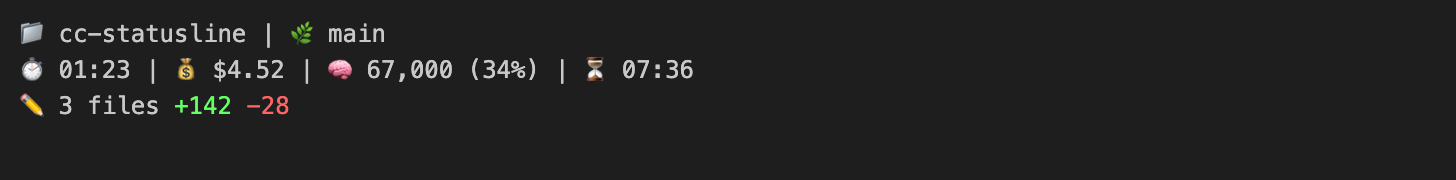
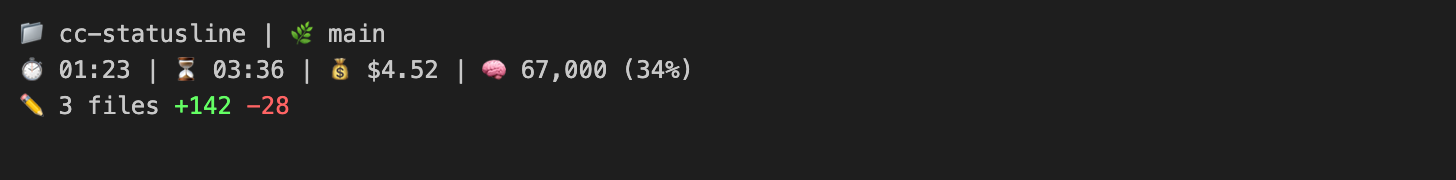
style: move limit reset timer next to session time
Reorder line 2: ⏱ session | ⏳ reset | 💰 cost | 🧠 context

Changed region(s): [[0.1236, 0.3056, 0.4945, 0.4444]]

diff --git a/src/index.ts b/src/index.ts
@@ -1,6 +1,7 @@
 #!/usr/bin/env bun
 
 import { $ } from "bun";
+
 // eslint-disable-next-line @typescript-eslint/no-require-imports
 const simdjson = require("simdjson") as {
 	lazyParse: (str: string) => { valueForKeyPath: (path: string) => unknown };
@@ -259,9 +260,7 @@ async function parseLimitResetFromJsonl(
 }
 
 // 리셋 시간 가져오기 (캐싱)
-async function getLimitResetCached(
-	projectDir: string,
-): Promise<Date | null> {
+async function getLimitResetCached(projectDir: string): Promise<Date | null> {
 	if (Date.now() - cache.limitReset.timestamp < CACHE_TTL.limitReset) {
 		return cache.limitReset.value;
 	}
@@ -272,7 +271,10 @@ async function getLimitResetCached(
 }
 
 // 리셋까지 남은 시간 계산
-function getTimeUntilReset(resetTime: Date): { hours: number; minutes: number } {
+function getTimeUntilReset(resetTime: Date): {
+	hours: number;
+	minutes: number;
+} {
 	const now = new Date();
 	const diff = resetTime.getTime() - now.getTime();
 
@@ -322,7 +324,9 @@ async function main() {
 		getBranchCached(),
 		getGitChangesCached(),
 		getPrUrlCached(),
-		noLimit ? Promise.resolve(null) : getLimitResetCached(claudeJson.workspace?.project_dir || ""),
+		noLimit
+			? Promise.resolve(null)
+			: getLimitResetCached(claudeJson.workspace?.project_dir || ""),
 	]);
 
 	// 7. 출력
@@ -333,16 +337,17 @@ async function main() {
 	}
 	console.log(line1);
 
-	// 2번째 줄: 세션 시간 | 비용 | 컨텍스트 | 리셋 타이머
-	let line2 =
-		`${C.WHITE}⏱ ${formatTime(sessionHrs, sessionMins)}${C.RESET} | ` +
-		`${C.WHITE}💰 $${costUsd.toFixed(2)}${C.RESET} | ` +
-		`${ctxColor}🧠 ${formatNumber(totalTokens)} (${contextPct}%)${C.RESET}`;
+	// 2번째 줄: 세션 시간 | 리셋 타이머 | 비용 | 컨텍스트
+	let line2 = `${C.WHITE}⏱ ${formatTime(sessionHrs, sessionMins)}${C.RESET}`;
 
 	if (!noLimit && limitReset) {
 		const resetTime = getTimeUntilReset(limitReset);
 		line2 += ` | ${C.WHITE}⏳ ${formatTime(resetTime.hours, resetTime.minutes)}${C.RESET}`;
 	}
+
+	line2 +=
+		` | ${C.WHITE}💰 $${costUsd.toFixed(2)}${C.RESET} | ` +
+		`${ctxColor}🧠 ${formatNumber(totalTokens)} (${contextPct}%)${C.RESET}`;
 
 	console.log(line2);
 
